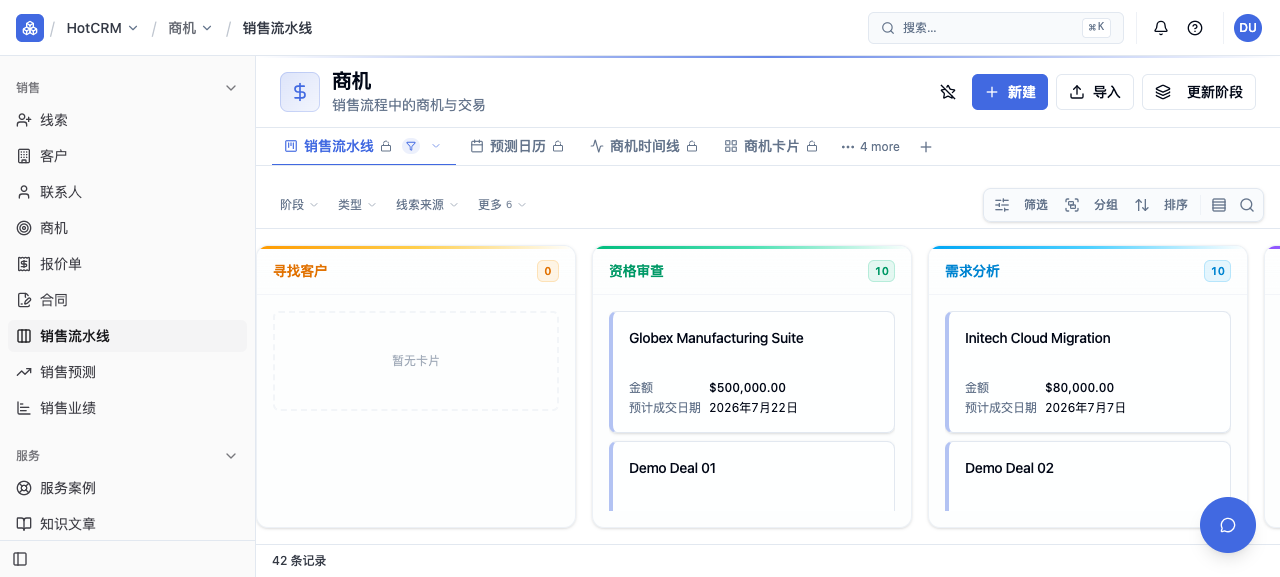
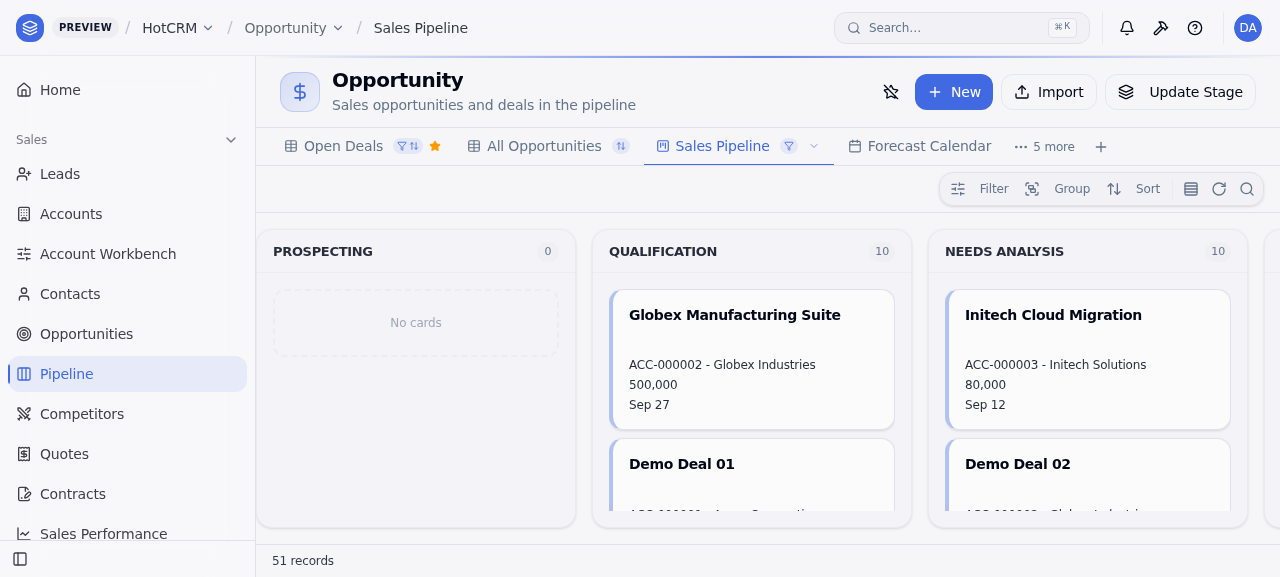
Replace README screenshots with English versions (#533)
* Replace README screenshots with English versions

Recapture all five marketplace screenshots against a live dev instance
running in the default en locale (previously zh-CN), and update the
screenshot notes in README.md and assets/screenshots/README.md to match.

Closes #513

Claude-Session: https://claude.ai/code/session_015F6F3jGDQystmsYkMSBNvJ

* Add empty changeset for docs-only screenshot update

Upstream now requires every PR to carry a changeset or the
skip-changeset label. This change releases nothing, so the
changeset has empty frontmatter per the changeset-check convention.

Claude-Session: https://claude.ai/code/session_015F6F3jGDQystmsYkMSBNvJ

---------

diff --git a/assets/screenshots/README.md b/assets/screenshots/README.md
@@ -1,14 +1,13 @@
 # Screenshots
 
-Marketplace screenshots for HotCRM. Captured with `agent-browser` against a live `pnpm dev` instance using the existing seed data (~107 accounts, 43 opportunities, 38 cases). Currently in zh-CN to showcase the i18n.
+Marketplace screenshots for HotCRM. Captured with Playwright (1280×577 viewport, `locale: en-US`) against a live `pnpm dev` instance using the bundled seed data. Captured in English (the default locale); zh-CN, es-ES, and ja-JP bundles are also included in the app.
 
 | File | Page | Highlights |
 |---|---|---|
-| `01-sales-pipeline.png` | Opportunities kanban (`crm_opportunity/view/pipeline_kanban`) | 42 deals across stages, amounts + close dates per card |
-| `02-accounts-list.png` | Accounts card view (`crm_account`) | Industry + ARR + employees + contact info |
-| `03-opportunities-list.png` | All opportunities table view (`crm_opportunity/view/all_opportunities`) | Sortable list with probability bars, grouped by stage |
-| `04-executive-dashboard.png` | Executive dashboard (`dashboard/executive_dashboard`) | $40M ARR / 107 customers / 98 contacts / 262 unconverted leads KPIs + charts |
-| `05-service-cases.png` | Service cases kanban (`crm_case`) | Cases by status (新建/处理中/等待客户回复) with priority badges |
+| `01-sales-pipeline.png` | Opportunities kanban (`crm_opportunity/view/pipeline_kanban`) | Deals across stages, account + amount + close date per card |
+| `02-accounts-list.png` | Account cards view (`crm_account/view/account_gallery`) | Industry + annual revenue + employees + contact info |
+| `03-opportunities-list.png` | All opportunities table view (`crm_opportunity/view/all_opportunities`) | Sortable list with stage badges and probability bars |
+| `04-executive-dashboard.png` | Executive dashboard (`dashboard/executive_dashboard`) | Revenue / accounts / contacts / leads KPIs + revenue trend and industry charts |
+| `05-service-cases.png` | Service cases kanban (`crm_case/view/case_workflow`) | Cases by status (New / In Progress / Waiting on Customer) with priority badges |
 
-To recapture: `pnpm dev` → log in → `agent-browser open` each URL → `agent-browser screenshot <file>`.
-
+To recapture: `pnpm dev` → log in as the seeded dev admin → open each URL under `/_console/apps/app.objectstack.hotcrm/` in a 1280×577 en-US browser → screenshot to the matching file.

diff --git a/README.md b/README.md
@@ -39,7 +39,7 @@ HotCRM is a complete, opinionated CRM built as the **first official application*
 |---|
 | ![Executive dashboard](assets/screenshots/04-executive-dashboard.png) |
 
-> Screenshots show HotCRM running in zh-CN with seeded data. Bundled translations: en, zh-CN, es-ES, ja-JP.
+> Screenshots show HotCRM running in English with seeded data. Bundled translations: en, zh-CN, es-ES, ja-JP.
 
 ---
 

diff --git a/.changeset/readme-screenshots-english.md b/.changeset/readme-screenshots-english.md
@@ -1,0 +1,4 @@
+---
+---
+
+Recapture all five README/marketplace screenshots with the app running in the default English locale (previously zh-CN), and update the screenshot notes in `README.md` and `assets/screenshots/README.md` to match. Documentation/assets only — no runtime code changes, releases nothing.
